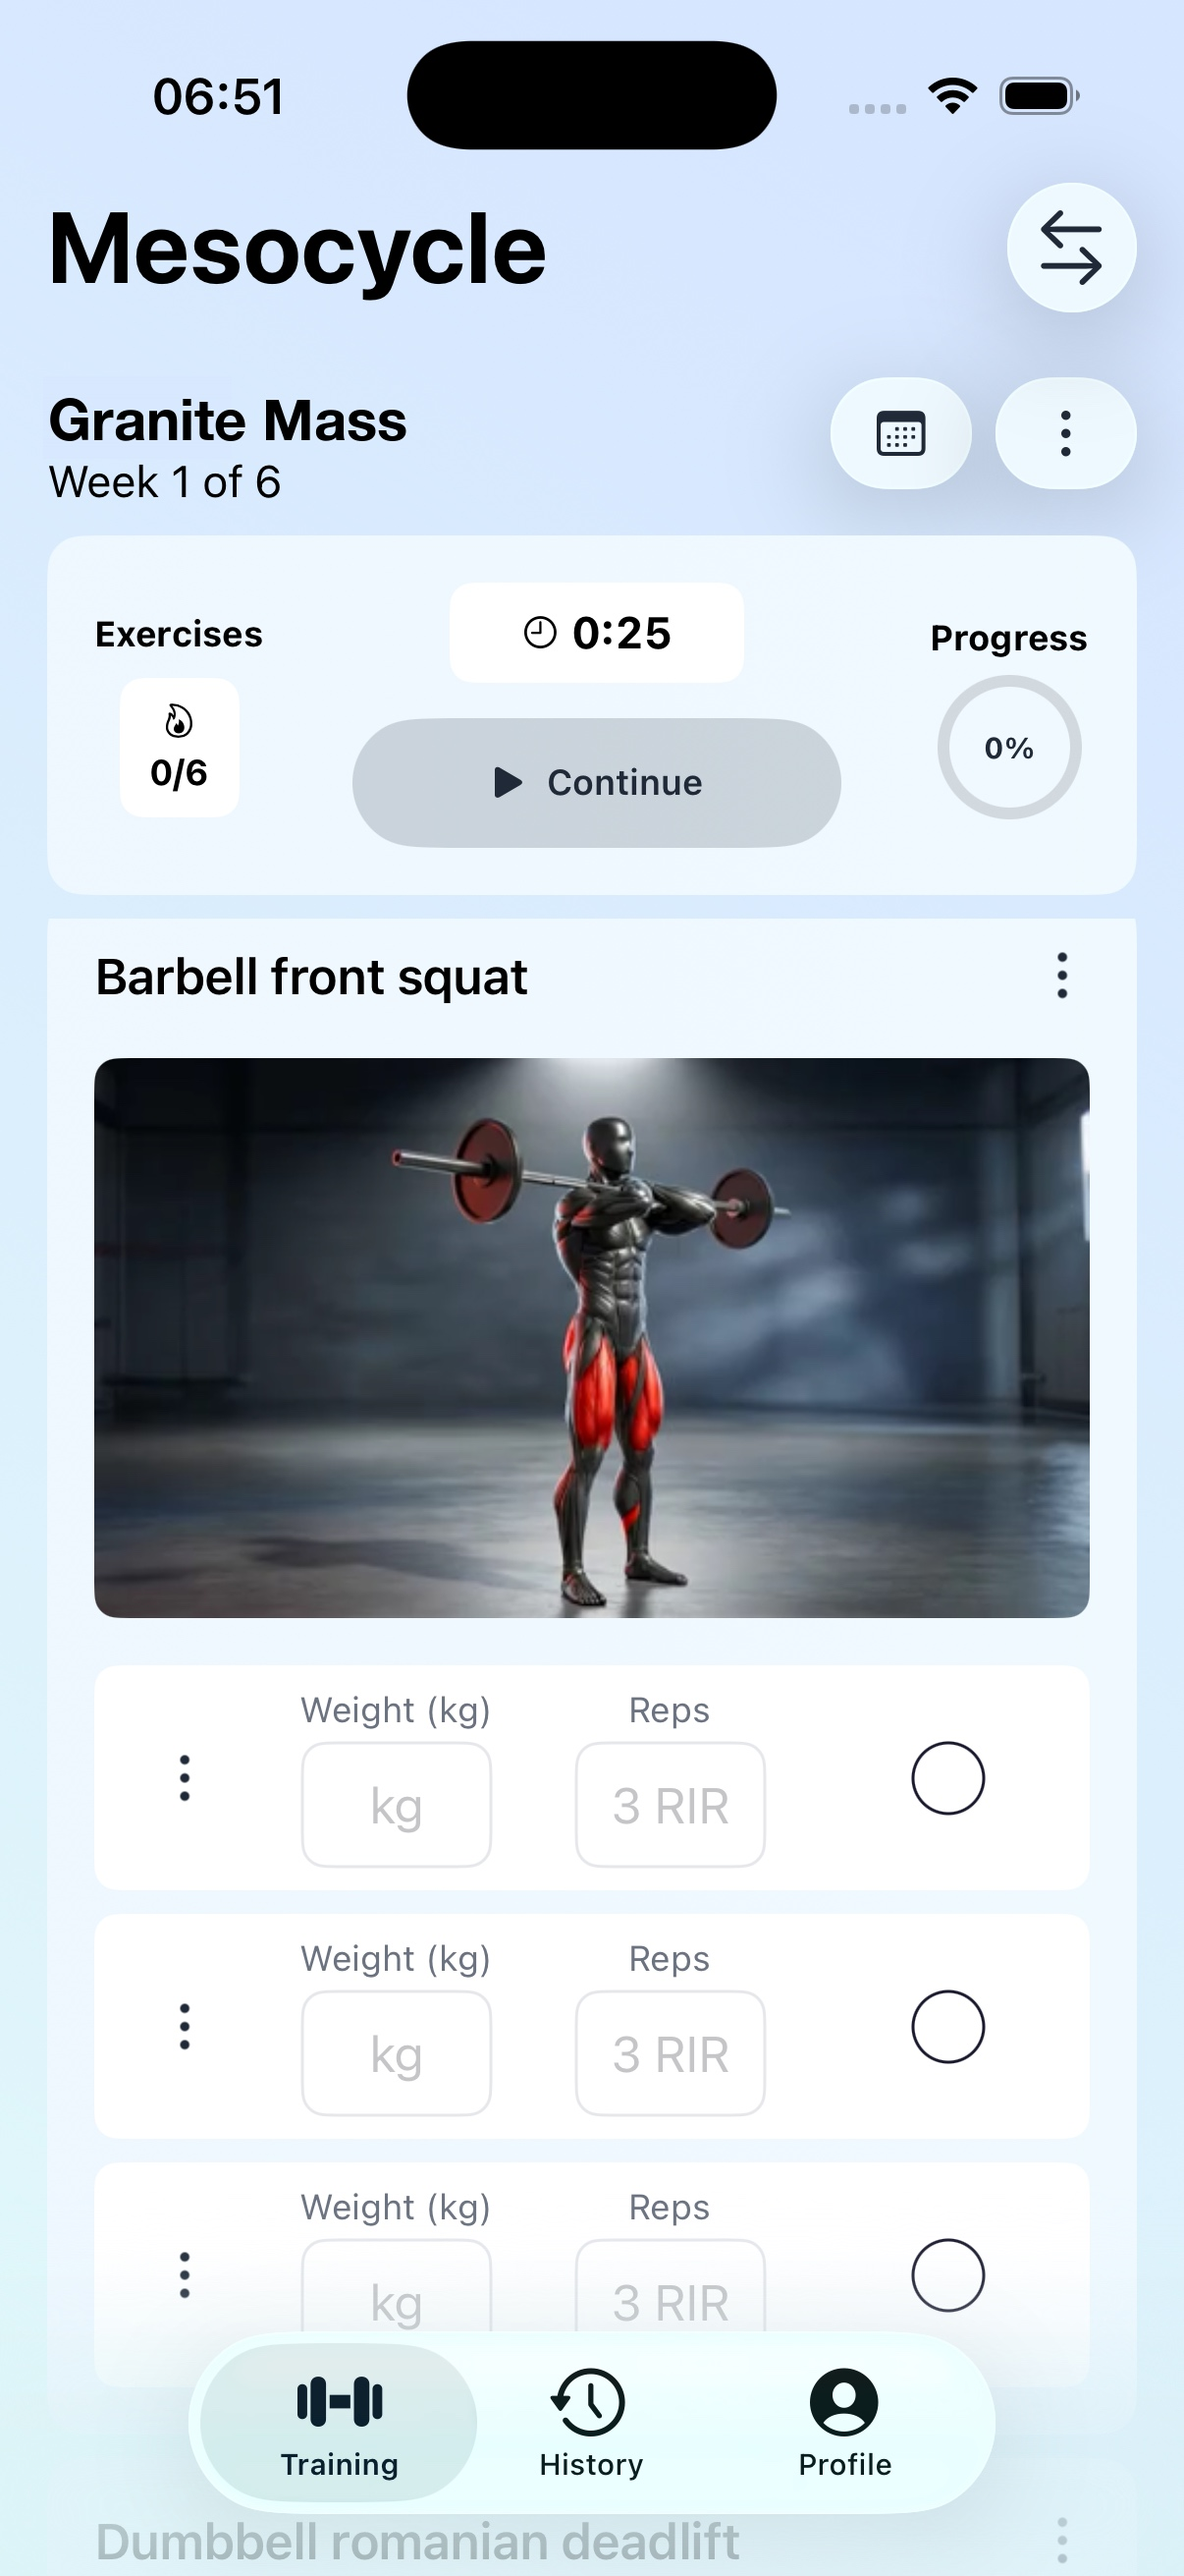
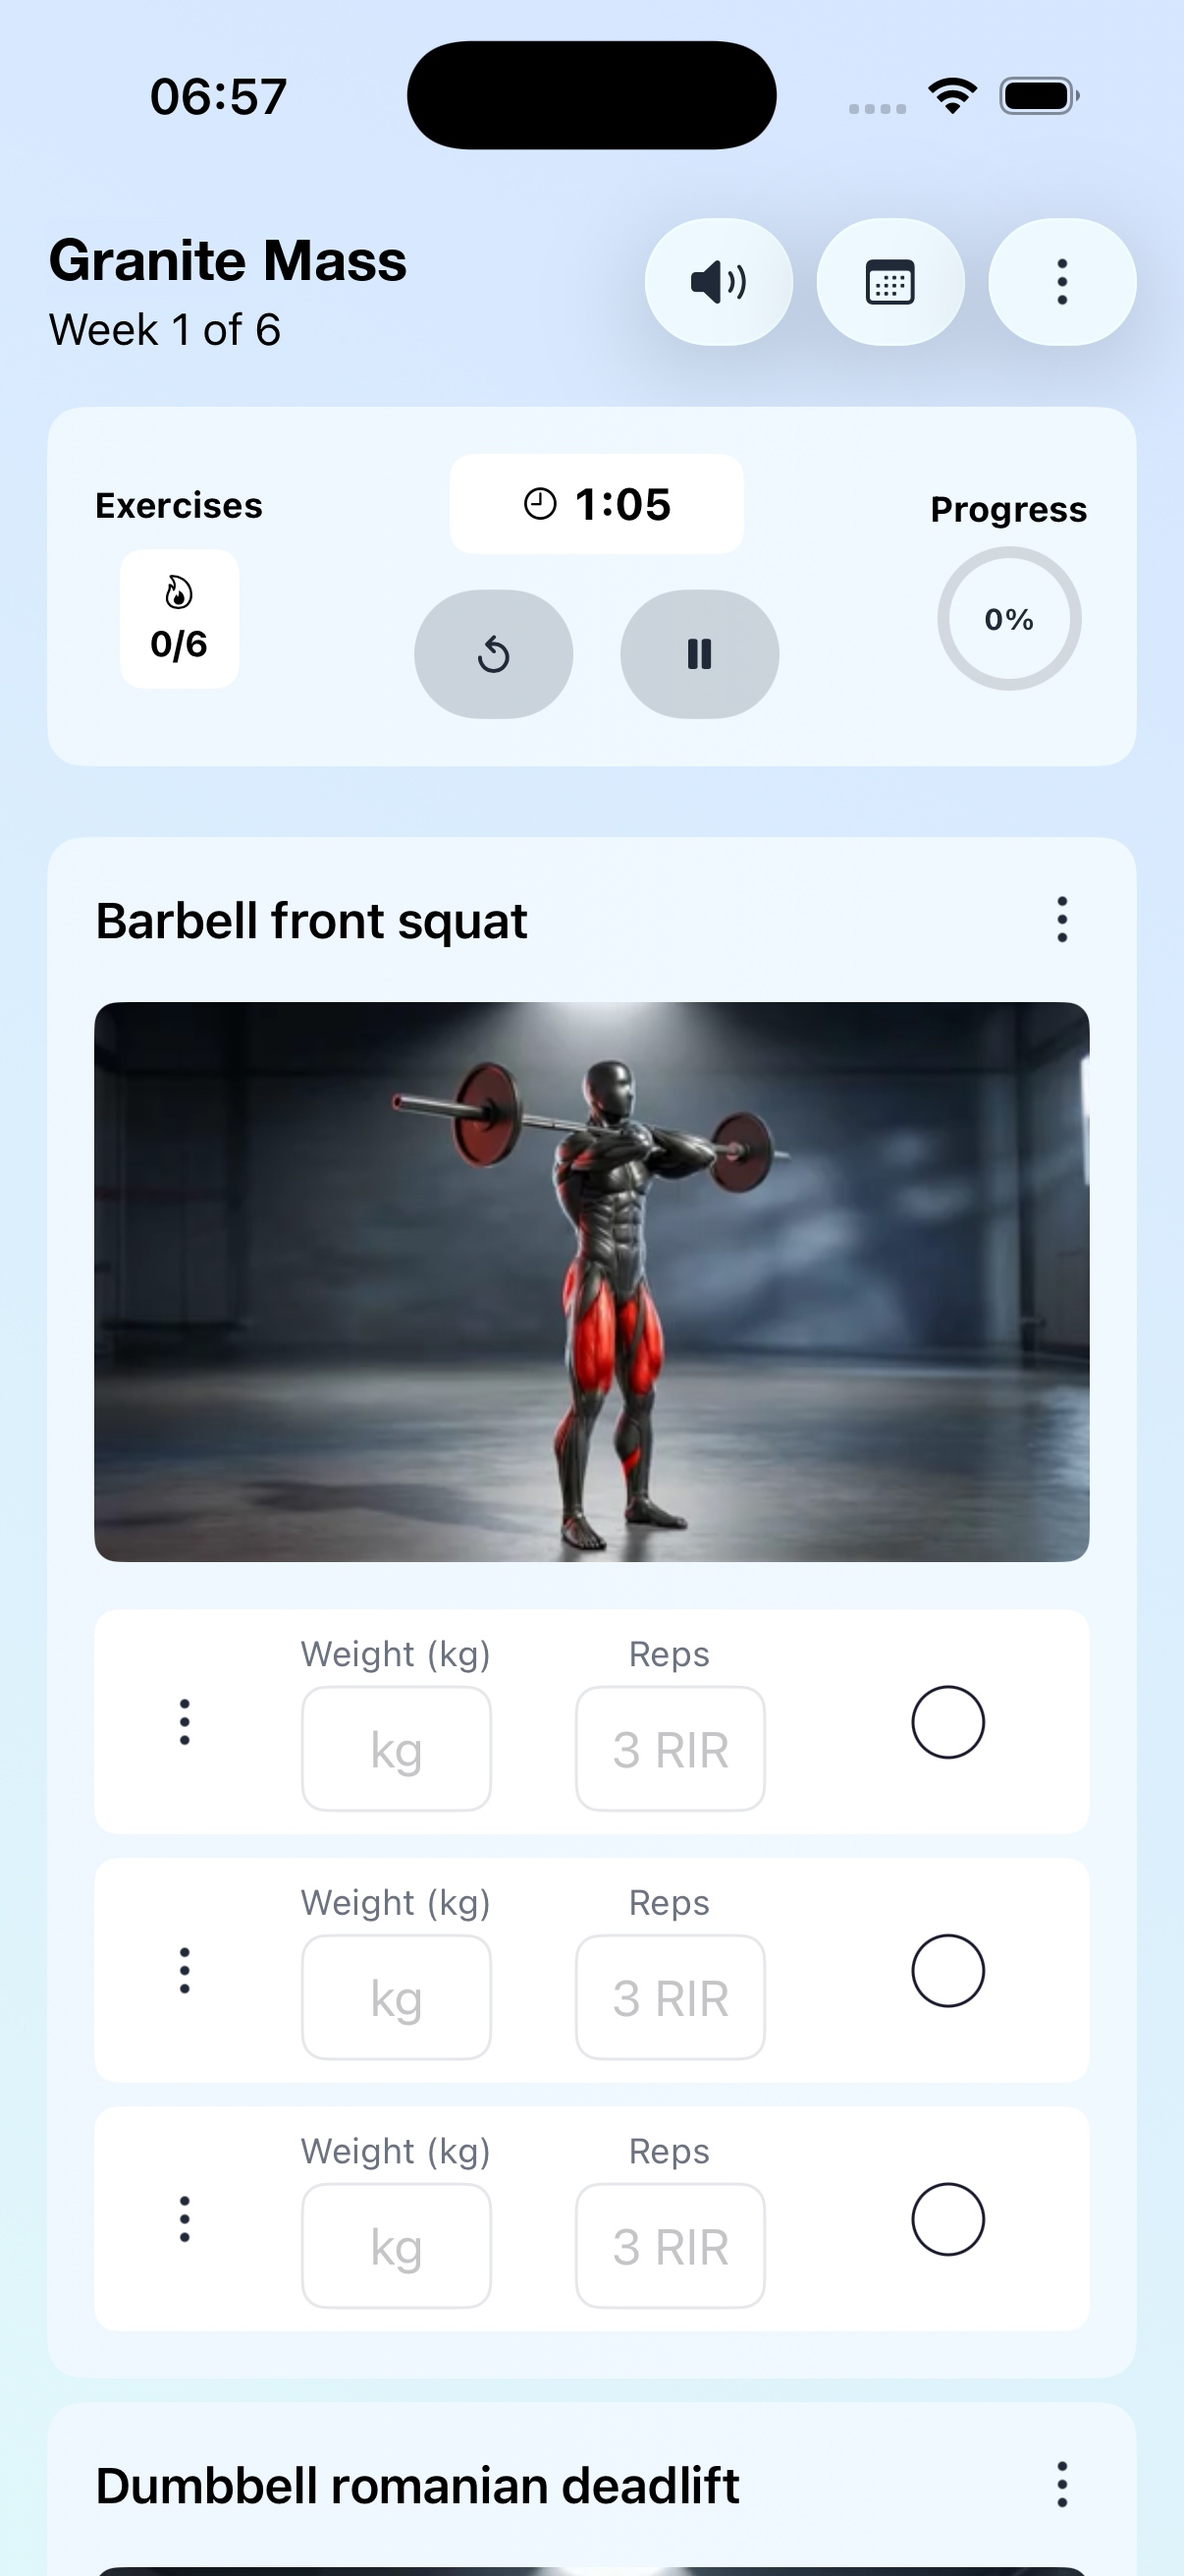
Replace the light-mode mesocycle screenshot with the in-workout screen

diff --git a/index.html b/index.html
@@ -52,7 +52,7 @@
 
     <div class="phone-wrap">
       <div class="phone">
-        <img class="phone-shot shot-light" src="assets/img/screen-mesocycle-light.jpg" alt="A LiftSmart mesocycle workout with prescribed sets, reps and effort targets">
+        <img class="phone-shot shot-light" src="assets/img/screen-mesocycle-light.jpg?v=2" alt="A LiftSmart mesocycle workout with prescribed sets, reps and effort targets">
         <img class="phone-shot shot-dark" src="assets/img/screen-mesocycle.jpg?v=2" alt="A LiftSmart mesocycle workout with prescribed sets, reps and effort targets">
       </div>
     </div>
